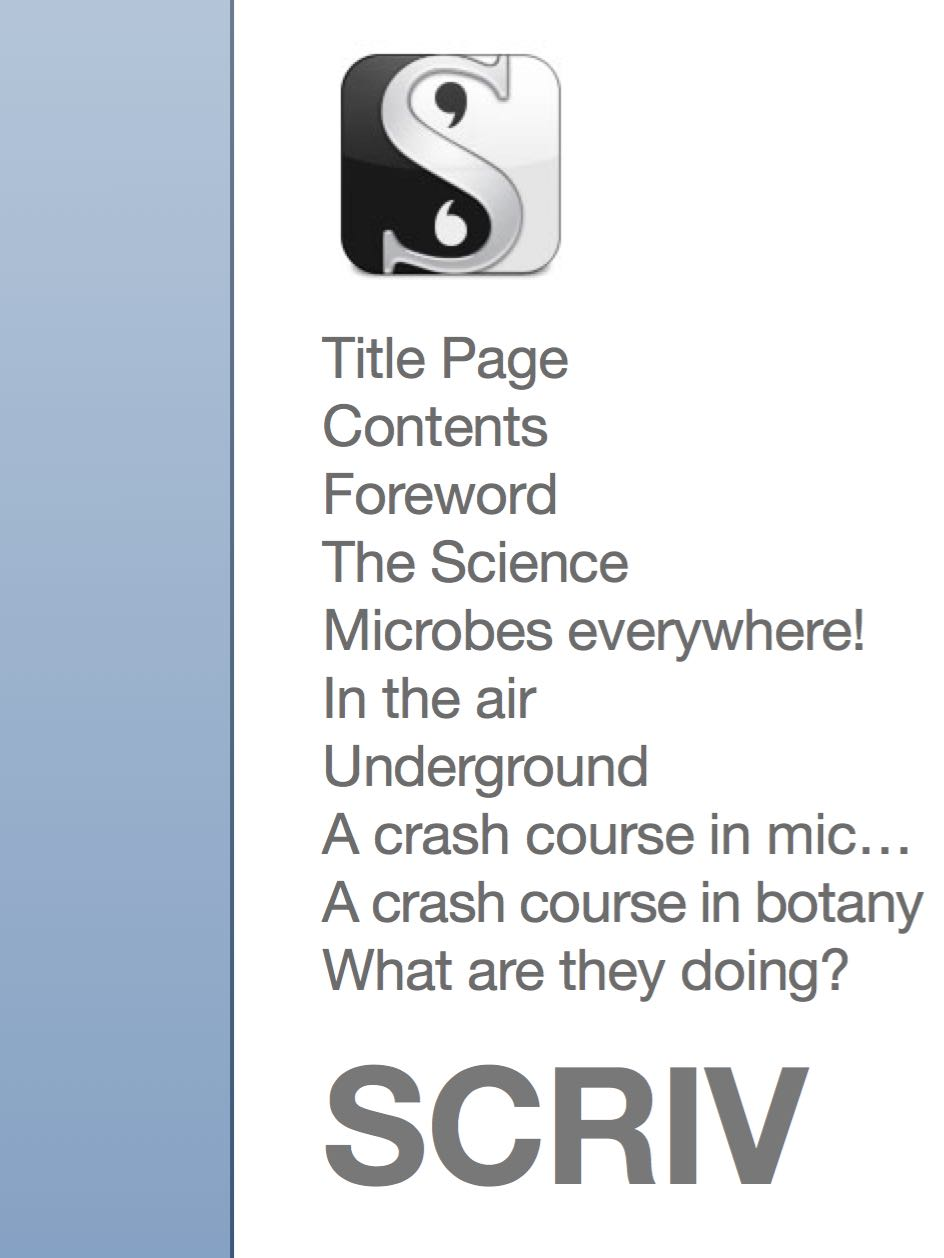
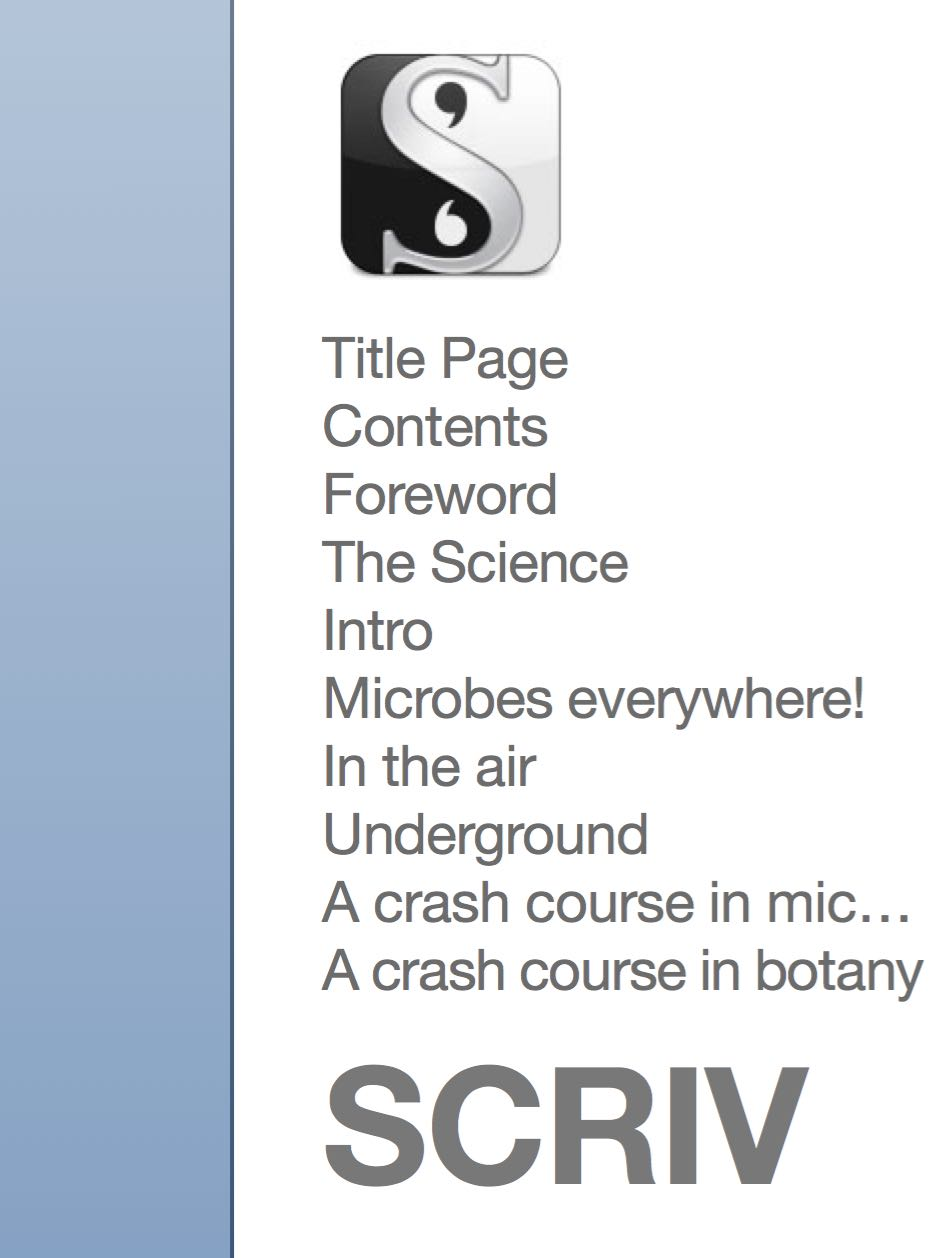
HackersGuide intro

Changed region(s): [[0.3379, 0.465, 0.9831, 0.806]]

diff --git a/docs/HackersGuide/hackersGuide.html/hackersGuide.html b/docs/HackersGuide/hackersGuide.html/hackersGuide.html
@@ -5,8 +5,8 @@
   <meta http-equiv="Content-Style-Type" content="text/css">
   <title>Hackers Guide to the Microbiome</title>
   <meta name="Author" content="Richard Sprague">
-  <meta name="CreationTime" content="2015-07-14T16:13:43Z">
-  <meta name="ModificationTime" content="2015-07-14T16:13:43Z">
+  <meta name="CreationTime" content="2015-07-15T09:19:32Z">
+  <meta name="ModificationTime" content="2015-07-15T09:19:32Z">
   <meta name="Generator" content="Cocoa HTML Writer">
   <meta name="CocoaVersion" content="1348.17">
   <style type="text/css">a:link {text-decoration:none;}
@@ -20,12 +20,12 @@ a:hover {text-decoration:none;}
     p.p5 {margin: 0.0px 0.0px 0.0px 0.0px; text-align: center; font: 12.0px Georgia}
     p.p7 {margin: 0.0px 0.0px 0.0px 0.0px; text-indent: 36.0px; font: 12.0px Georgia}
     p.p8 {margin: 0.0px 0.0px 0.0px 0.0px; text-indent: 36.0px; font: 12.0px Georgia; min-height: 14.0px}
-    p.p13 {margin: 0.0px 0.0px 0.0px 0.0px; text-indent: 18.0px; font: 12.0px Georgia}
-    p.p14 {margin: 0.0px 0.0px 0.0px 0.0px; text-indent: 18.0px; font: 12.0px Georgia; min-height: 14.0px}
-    p.p15 {margin: 0.0px 0.0px 0.0px 0.0px; font: 12.0px Georgia; color: #0b1480}
-    p.p16 {margin: 0.0px 0.0px 0.0px 0.0px; text-indent: 36.0px; font: 12.0px Georgia; color: #252525}
-    p.p17 {margin: 0.0px 0.0px 0.0px 0.0px; text-indent: 36.0px; font: 12.0px Georgia; color: #000000}
-    p.p18 {margin: 0.0px 0.0px 0.0px 0.0px; text-indent: 36.0px; font: 12.0px Georgia; color: #000000; min-height: 14.0px}
+    p.p12 {margin: 0.0px 0.0px 0.0px 0.0px; text-indent: 36.0px; font: 12.0px Georgia; color: #000000}
+    p.p13 {margin: 0.0px 0.0px 0.0px 0.0px; text-indent: 36.0px; font: 12.0px Georgia; color: #000000; min-height: 14.0px}
+    p.p15 {margin: 0.0px 0.0px 0.0px 0.0px; text-indent: 18.0px; font: 12.0px Georgia}
+    p.p16 {margin: 0.0px 0.0px 0.0px 0.0px; text-indent: 18.0px; font: 12.0px Georgia; min-height: 14.0px}
+    p.p17 {margin: 0.0px 0.0px 0.0px 0.0px; font: 12.0px Georgia; color: #0b1480}
+    p.p18 {margin: 0.0px 0.0px 0.0px 0.0px; text-indent: 36.0px; font: 12.0px Georgia; color: #252525}
     p.p19 {margin: 0.0px 0.0px 0.0px 36.0px; font: 14.0px Cochin}
     span.s1 {text-decoration: underline}
     span.s2 {font-kerning: none}
@@ -91,7 +91,7 @@ a:hover {text-decoration:none;}
         <p class="p2"><br></p>
       </td>
       <td valign="top" class="td1">
-        <p class="p3">6,000 words</p>
+        <p class="p3">7,600 words</p>
       </td>
     </tr>
   </tbody>
@@ -191,9 +191,63 @@ a:hover {text-decoration:none;}
 <p class="p2"><br></p>
 <h1 style="margin: 0.0px 0.0px 0.0px 0.0px; text-align: center; font: 24.0px Georgia"><b><a id="doc4"></a>Chapter One: The Science</b></h1>
 <h1 style="margin: 0.0px 0.0px 0.0px 0.0px; text-align: center; font: 24.0px Georgia; min-height: 27.0px"><br></h1>
+<h1 style="margin: 0.0px 0.0px 0.0px 0.0px; font: 16.0px Georgia"><b><a id="doc71"></a>Intro</b></h1>
+<p class="p12">I'm a software guy, and when I think about what it means to be human, I think first of course of all the various "software" we are made of: our language, culture, education, behaviors -- all things that seem to us to be flexible, even arbitrary, but which define us as individuals. But as with computers, the software can only run as well as the hardware, so I'm interested in that too: what is the CPU, the memory, the graphics card? and how can you expand or make it better and faster? What should you do to maintain your hardware?</p>
+<p class="p13"><br></p>
+<p class="p12">To learn more about your hardware, you can of course measure various things about yourself: temperature, blood tests, activity levels. New products like the Apple Watch are making this much easier, and in the near future you'll see an explosion of new and better ways to measure your body's hardware and with better, more actionable measurement come many ways to modify and optimize your health along the way. All of these new wearable computing devices recognize that you<span class="Apple-converted-space">  </span>are a unique individual and that we always should treat the patient, not the statistics. So what is the part of you that is fundamentally you?</p>
+<p class="p13"><br></p>
+<p class="p12">The obvious place to start is with DNA, and our human genes. I was excited when 23andme (and other services) came out about ten years ago, letting each of us inexpensively see our internal hardware, perhaps to learn more about the things that make us unique, and maybe peer into our futures, to the degree that biological traits like susceptibility to various diseases or conditions is hereditary and unchangeable.</p>
+<p class="p13"><br></p>
+<p class="p12">But after a while I realized how little of what we learn about DNA is actionable. If you find you have the "gene for"<span class="Apple-converted-space">  </span>Alzheimer's disease or Parkinson's, or any of the other traits that have been linked to specific genes, what can you do about it? In nearly every case, the advice is exactly what you should be doing even if you don't have that trait: eat well and get lots of exercise.</p>
+<p class="p13"><br></p>
+<p class="p13"><br></p>
+<p class="p7"><b>Fortunately, it's not just our DNA</b></p>
+<p class="p12">In fact, if you could point a scanner at me and pull out everything, all the "hardware" inside me right now, you'd find a curious fact: although sure, 99% of the weight and size of what you see is human (blood, skin, bones, organs, etc.), only about 10% of the cells are human, and even less than that<span class="Apple-converted-space">  </span>-- only about 1%<span class="Apple-converted-space">  </span>-- of the DNA-storing genes are human.</p>
+<p class="p13"><br></p>
+<p class="p12">What's the rest? Who am I, if only 1% of the genes inside me are human? The answer is microbes, and as befits something that so outnumbers the "human" part of us, they play a large role in everything about what we do, from our health to our moods and even, as I'll show, to our motivations.</p>
+<p class="p13"><br></p>
+<p class="p7"><b>Microbes are older than any of us</b></p>
+<p class="p12">We tend to think of the invisible, single-celled microbes as "primitive", not nearly as "advanced" as we humans, with our marvelous brains and ability to transform the earth with airplanes and skyscrapers and nuclear reactors and all the rest. But that's what we would think, wouldn't we? In fact, the microbes are everywhere, literally everywhere on earth, in the sky, even deep underground. We can't go anywhere without encountering microbes because, well, there are even microbes on and inside us. Humans can't survive without microbes. So what does it even mean to say we're "better" or more "advanced" than they are?</p>
+<p class="p13"><br></p>
+<p class="p12">Before the microscope, people didn't even know that microbes existed. Similarly, until the advent of large-scale gene sequencing machines in the past ten years, almost nothing was known about the amazing ubiquity and resilience of microbes.</p>
+<p class="p13"><br></p>
+<p class="p12">Yes, they're single-celled and yes many of their cellular functions seem more straightforward than the functions of a multi-cellular creature like us, but it would be a mistake to assume that means microbes -- collectively -- are less influential, and certainly it would be a big error to assume they are less important. Fact is, these organisms have been around, breathing, eating, multiplying, for billions of years, often in pretty much the same form that they are today. These things have survived every imaginable planetary condition from volcanoes to the depths of the ocean to the inside of nuclear reactors. Global Warming means nothing to these guys, who have seen and thrived all over the earth since the day life first appeared.</p>
+<p class="p13"><br></p>
+<p class="p7"><b>What they want</b></p>
+<p class="p12">Because they have such a huge advantage over us, in lifespan (each microbe is an exact divided copy of itself, going back a zillion generations), in speed of replication (they can double in just a few minutes under the right conditions),<span class="Apple-converted-space">  </span>and ubiquity (as I said, cellwise they far outnumber us), they can afford to colonize every new imaginable environment.<span class="Apple-converted-space"> </span></p>
+<p class="p13"><br></p>
+<p class="p12">And that's what they do, every time a new frontier opens to them. The moment of your birth, for example, when you left the (mostly) sterile conditions of your mother's womb, they immediately flooded all over your skin, mostly coming from your mother, and in that fresh environment they used their first-mover advantage to get a stronghold that in many cases lasts your entire life. Many (most?) of the microbes that matter arrived inside you this way, originally, and many of them are still there today, decades, even half a century or more later.<span class="Apple-converted-space"> </span></p>
+<p class="p13"><br></p>
+<p class="p12">To survive, they need one thing: something to eat. Being so tiny, they don't need much, and they mostly eat things that you (and other larger creatures) weren't interested in anyway. (Or, since they were here first, it's probably more accurate to say that you and I must live on the foods that they don't want. A cheeseburger is only food for you because you snatch it faster than they do. Leave it outside for a while and they'll get it eventually).</p>
+<p class="p13"><br></p>
+<p class="p7"><b>Who's in charge?</b></p>
+<p class="p12">Collectively, the multitude species of microbes will eat just about everything, but individually each species has its preferences. When they're outside the body, as I said, they can "colonize" new territories (like fresh baby skin) to get what they want, but those inside your tummy are at the mercy of whatever it is you decide to put into your mouth.</p>
+<p class="p13"><br></p>
+<p class="p12">Often, that's not a big deal: many species thrive on the same proteins, carbohydrates, and fats that you do. But some species do better than others with certain types of foods, and this is where the line between your human desires and theirs becomes unclear.</p>
+<p class="p13"><br></p>
+<p class="p12">Eighty percent of all your brain's outside receptors -- counting all the nerve endings everywhere on your skin -- eighty percent complete their connections in the gut. The main switching grounds, an area called the vagus nerve, does something.<span class="Apple-converted-space">  </span>What? We know very little, but we see some evidence that the purpose -- the reason that not 1% or 10% or 50% but a full 80% of all the receptors go to the gut -- is so the microbes can tell your brain what to do.</p>
+<p class="p13"><br></p>
+<p class="p12">When you find yourself feeling hungry, ask yourself who is feeling hungry. Scientists have traced that feeling of hunger to changes in certain hormones like leptin, but wait -- why did the leptin levels change in the first place? Could it be that a microbes someplace was manipulating your leptin levels, perhaps by poking that vagus nerve just the right way -- to get your brain to start thinking about whatever food that microbe wants?</p>
+<p class="p13"><br></p>
+<p class="p12">This isn't as ridiculous as it sounds, the idea that microbes could influence your feelings and desires. Think about a disease like the rabies microbe. Because it spreads through saliva, it can't find new territory unless its host somehow finds itself exchanging saliva -- biting -- another potential host. So guess what a rabies victim can't stop thinking about? Biting a new victim.<span class="Apple-converted-space">  </span>The microbe literally puts a thought into the mind.</p>
+<p class="p13"><br></p>
+<p class="p12">There are many other examples, so many in fact as to be potentially a bit disturbing when we realize that we humans may be much more at the mercy of tiny microbes than we think.<span class="Apple-converted-space">  </span>Links have been made between microbes and schizophrenia, stress, anxiety, self-grooming, and much more.<span class="Apple-converted-space">  </span>Autism Spectral Disorders, which have always seemed puzzling because of the relationship they seem to have with digestive problems, are also linked to microbes,<span class="Apple-converted-space">  </span>or the lack thereof.</p>
+<p class="p13"><br></p>
+<p class="p12">Perhaps the most intriguing example is the common parasite Toxoplasma gondii, the strange organism that can only reproduce in the intestines of cats. A parasite seen often in all warm-blooded mammals, it's found in about a third of the global population of humans too.<span class="Apple-converted-space">  </span>It's one of the reasons they tell pregnant women to stay away from cat litter. But here's the interesting part: when a Toxo protozoa infects a mouse, it leaves cysts in the mouse brain that make it attracted to cat urine! Yes, it changes the neurology of a mouse so that it's more likely to end up inside a cat's tummy -- exactly where it can reproduce.</p>
+<p class="p13"><br></p>
+<p class="p12">Think about this too much, and you'll end up with the obvious question: what other weird microbes are infecting us right now? Can we explain some of our own behaviors this way? Is there a human equivalent of these infections, driving us to do things we "ordinarily" wouldn't do? And maybe these microbes are so ubiquitous, teeming all over us and in our brains, maybe there's no way to even know what "ordinary" or "normal" human behavior is.</p>
+<p class="p13"><br></p>
+<p class="p13"><br></p>
+<p class="p7"><b>What is health?</b></p>
+<p class="p12">There's a new idea in science (well, maybe it's not new, but it's new to me and that's why I'm talking about this). Maybe you can't really think about human hardware without thinking about the whole ecology that goes with it, the various organisms live in and around us and greatly outnumber us.</p>
+<p class="p13"><br></p>
+<p class="p12">When you think this way, then suddenly "health" takes on a whole new meaning, because we're no longer talking about the status of a single organism -- me -- but rather about the entire function "eco-system" of many, many living things, including<span class="Apple-converted-space">  </span>the "me" that I want to refer to as a human.</p>
+<p class="p8"><br></p>
+<p class="p8"><br></p>
 <h1 style="margin: 0.0px 0.0px 0.0px 0.0px; font: 16.0px Georgia"><b><a id="doc6"></a>Microbes everywhere!</b></h1>
-<p class="p7">Every human body is home to a rich environment of tiny living organisms, trillions of them, with their own genes, their own ways of living and surviving, and their own long histories, permanently intertwined with humanity since the beginning.</p>
-<p class="p7">These microbes inhabit every possible niche inside and outside the body. Covering every inch of skin, lining every part of the nose and ears, they have burrowed deep inside nearly every organ, consuming as well as producing, living in such quantities that together they would weigh somewhere between three and five pounds -- about as much as the brain.</p>
+<p class="p7">Every human body is home to a rich environment of tiny living organisms, trillions of them, with their own genes, their own ways of living and surviving, and their own long histories, permanently intertwined with humanity since the beginning. These microbes inhabit every possible niche inside and outside the body. Covering every inch of skin, lining every part of the nose and ears, they have burrowed deep inside nearly every organ, consuming as well as producing, living in such quantities that together they would weigh somewhere between three and five pounds -- about as much as the brain.</p>
+<p class="p8"><br></p>
+<p class="p8"><br></p>
 <p class="p7">The word "microbe" refers to any tiny organism that carries its own genetic information for purposes of propagating itself. Far too small to see with the naked eye, dozens could fit inside a typical human cell. The vast majority of microbes are bacteria, though viruses and phages fit this description too, as well as archaea, the extremophile life forms that live and thrive in environments too challenging for bacteria. A typical human will have somewhere between [n and m] individual cells -- blood, skin, neurons, other tissues -- each descended from a single germ cell, the fertilized egg that began dividing itself and multiplying after the moment of conception. By contrast, microbes had to hitch their own rides later, beginning in the womb and turning into a flood at the moment of birth and beyond. But each microbe, like each human cell, remains deeply interconnected with the fates of all the other cells, all the way to the moment of death, and even after that.</p>
 <p class="p8"><br></p>
 <p class="p8"><br></p>
@@ -201,7 +255,7 @@ a:hover {text-decoration:none;}
 <p class="p8"><br></p>
 <h1 style="margin: 0.0px 0.0px 0.0px 0.0px; font: 14.0px Georgia"><b><a id="doc35"></a>In the air</b></h1>
 <p class="p7">A team in France, performing experiments on snowflakes, discovered microbes in the sky.</p>
-<p class="p13"><img src="Images/Psudomonas syringae.png" width="245" height="180" alt="Image"></p>
+<p class="p15"><img src="Images/Psudomonas syringae.png" width="245" height="180" alt="Image"></p>
 <p class="p8"><br></p>
 <p class="p7">1</p>
 <p class="p8"><br></p>
@@ -215,8 +269,8 @@ a:hover {text-decoration:none;}
 <p class="p7">There are even microbes that thrive in radioactive environments, like the dangerous interior of the Chernobyl nuclear reactor.</p>
 <p class="p8"><br></p>
 <p class="p8"><br></p>
-<p class="p13"><img src="Images/Deinococcus radiodurans.png" width="153" height="176" alt="Image"></p>
-<p class="p14"><br></p>
+<p class="p15"><img src="Images/Deinococcus radiodurans.png" width="153" height="176" alt="Image"></p>
+<p class="p16"><br></p>
 <h1 style="margin: 0.0px 0.0px 0.0px 0.0px; font: 16.0px Georgia"><b><a id="doc37"></a>A crash course in microbiology</b></h1>
 <p class="p7">Before we learn how to study your own microbiome, let's review some of the science.</p>
 <p class="p8"><br></p>
@@ -284,7 +338,7 @@ a:hover {text-decoration:none;}
         <p class="p1"><span class="s2">TTT</span></p>
       </td>
       <td rowspan="2" valign="middle" class="td14">
-        <p class="p15"><span class="s3">(Phe/F) <a href="https://en.wikipedia.org/wiki/Phenylalanine"><span class="s4">Phenylalanine</span></a></span></p>
+        <p class="p17"><span class="s3">(Phe/F) <a href="https://en.wikipedia.org/wiki/Phenylalanine"><span class="s4">Phenylalanine</span></a></span></p>
       </td>
       <td valign="middle" class="td15">
         <p class="p1"><span class="s2">TCT</span></p>
@@ -391,7 +445,7 @@ a:hover {text-decoration:none;}
         <p class="p1"><span class="s2">CAT</span></p>
       </td>
       <td rowspan="2" valign="middle" class="td24">
-        <p class="p15"><span class="s3">(His/H) <a href="https://en.wikipedia.org/wiki/Histidine"><span class="s4">Histidine</span></a></span></p>
+        <p class="p17"><span class="s3">(His/H) <a href="https://en.wikipedia.org/wiki/Histidine"><span class="s4">Histidine</span></a></span></p>
       </td>
       <td valign="middle" class="td18">
         <p class="p1"><span class="s2">CGT</span></p>
@@ -431,7 +485,7 @@ a:hover {text-decoration:none;}
         <p class="p1"><span class="s2">CAA</span></p>
       </td>
       <td rowspan="2" valign="middle" class="td17">
-        <p class="p15"><span class="s3">(Gln/Q) <a href="https://en.wikipedia.org/wiki/Glutamine"><span class="s4">Glutamine</span></a></span></p>
+        <p class="p17"><span class="s3">(Gln/Q) <a href="https://en.wikipedia.org/wiki/Glutamine"><span class="s4">Glutamine</span></a></span></p>
       </td>
       <td valign="middle" class="td18">
         <p class="p1"><span class="s2">CGA</span></p>
@@ -465,7 +519,7 @@ a:hover {text-decoration:none;}
         <p class="p1"><span class="s2">ATT</span></p>
       </td>
       <td rowspan="3" valign="middle" class="td14">
-        <p class="p15"><span class="s3">(Ile/I) <a href="https://en.wikipedia.org/wiki/Isoleucine"><span class="s4">Isoleucine</span></a></span></p>
+        <p class="p17"><span class="s3">(Ile/I) <a href="https://en.wikipedia.org/wiki/Isoleucine"><span class="s4">Isoleucine</span></a></span></p>
       </td>
       <td valign="middle" class="td15">
         <p class="p1"><span class="s2">ACT</span></p>
@@ -477,7 +531,7 @@ a:hover {text-decoration:none;}
         <p class="p1"><span class="s2">AAT</span></p>
       </td>
       <td rowspan="2" valign="middle" class="td17">
-        <p class="p15"><span class="s3">(Asn/N) <a href="https://en.wikipedia.org/wiki/Asparagine"><span class="s4">Asparagine</span></a></span></p>
+        <p class="p17"><span class="s3">(Asn/N) <a href="https://en.wikipedia.org/wiki/Asparagine"><span class="s4">Asparagine</span></a></span></p>
       </td>
       <td valign="middle" class="td18">
         <p class="p1"><span class="s2">AGT</span></p>
@@ -534,7 +588,7 @@ a:hover {text-decoration:none;}
         <p class="p1"><span class="s2">ATG<a href="https://en.wikipedia.org/wiki/DNA_codon_table#endnote_methionineA"><span class="s6">[A]</span></a></span></p>
       </td>
       <td valign="middle" class="td14">
-        <p class="p15"><span class="s3">(Met/M) <a href="https://en.wikipedia.org/wiki/Methionine"><span class="s4">Methionine</span></a></span></p>
+        <p class="p17"><span class="s3">(Met/M) <a href="https://en.wikipedia.org/wiki/Methionine"><span class="s4">Methionine</span></a></span></p>
       </td>
       <td valign="middle" class="td15">
         <p class="p1"><span class="s2">ACG</span></p>
@@ -569,7 +623,7 @@ a:hover {text-decoration:none;}
         <p class="p1"><span class="s2">GAT</span></p>
       </td>
       <td rowspan="2" valign="middle" class="td26">
-        <p class="p15"><span class="s3">(Asp/D) <a href="https://en.wikipedia.org/wiki/Aspartic_acid"><span class="s4">Aspartic acid</span></a></span></p>
+        <p class="p17"><span class="s3">(Asp/D) <a href="https://en.wikipedia.org/wiki/Aspartic_acid"><span class="s4">Aspartic acid</span></a></span></p>
       </td>
       <td valign="middle" class="td18">
         <p class="p1"><span class="s2">GGT</span></p>
@@ -609,7 +663,7 @@ a:hover {text-decoration:none;}
         <p class="p1"><span class="s2">GAA</span></p>
       </td>
       <td rowspan="2" valign="middle" class="td26">
-        <p class="p15"><span class="s3">(Glu/E) <a href="https://en.wikipedia.org/wiki/Glutamic_acid"><span class="s4">Glutamic acid</span></a></span></p>
+        <p class="p17"><span class="s3">(Glu/E) <a href="https://en.wikipedia.org/wiki/Glutamic_acid"><span class="s4">Glutamic acid</span></a></span></p>
       </td>
       <td valign="middle" class="td18">
         <p class="p1"><span class="s2">GGA</span></p>
@@ -637,7 +691,7 @@ a:hover {text-decoration:none;}
     </tr>
   </tbody>
 </table>
-<p class="p16"><span class="s6"><a href="https://en.wikipedia.org/wiki/DNA_codon_table#ref_methionineA"><b>A</b></a></span><span class="s2"> The codon ATG both codes for methionine and serves as an initiation site: the first ATG in an <a href="https://en.wikipedia.org/wiki/MRNA"><span class="s5">mRNA</span></a>'s coding region is where translation into protein begins.<a href="https://en.wikipedia.org/wiki/DNA_codon_table#cite_note-pmid19056476-1"><span class="s6">[1]</span></a></span></p>
+<p class="p18"><span class="s6"><a href="https://en.wikipedia.org/wiki/DNA_codon_table#ref_methionineA"><b>A</b></a></span><span class="s2"> The codon ATG both codes for methionine and serves as an initiation site: the first ATG in an <a href="https://en.wikipedia.org/wiki/MRNA"><span class="s5">mRNA</span></a>'s coding region is where translation into protein begins.<a href="https://en.wikipedia.org/wiki/DNA_codon_table#cite_note-pmid19056476-1"><span class="s6">[1]</span></a></span></p>
 <p class="p7"><span class="s2"><b>Inverse table (compressed using </b><a href="https://en.wikipedia.org/wiki/Nucleic_acid_notation"><span class="s5"><b>IUPAC notation</b></span></a><b>)</b></span></p>
 <table cellspacing="0" cellpadding="0" class="t2">
   <tbody>
@@ -928,11 +982,11 @@ a:hover {text-decoration:none;}
 <p class="p8"><br></p>
 <p class="p8"><br></p>
 <h1 style="margin: 0.0px 0.0px 0.0px 0.0px; font: 16.0px Georgia"><b><a id="doc70"></a>Studying the Human Microbiome</b></h1>
-<p class="p17">Studying the Human Microbiome</p>
-<p class="p18"><br></p>
-<p class="p17">During the late 1990s, biologists around the world were racing to complete the first sequence of the human genome, a first draft of which was available in June 2000, and the project was declared complete in 2003. With this sequence available, scientists now had the first rough map of all the genes that make up a human being, and they were hopeful that this would be quickly followed by new discoveries linking genes to health.<span class="Apple-converted-space"> </span></p>
-<p class="p18"><br></p>
-<p class="p17">The Human Microbiome Project was launched in 2008 by the National Institutes of Health with a budget of $115M.</p>
+<p class="p7">Studying the Human Microbiome</p>
+<p class="p8"><br></p>
+<p class="p7">During the late 1990s, biologists around the world were racing to complete the first sequence of the human genome, a first draft of which was available in June 2000, and the project was declared complete in 2003. With this sequence available, scientists now had the first rough map of all the genes that make up a human being, and they were hopeful that this would be quickly followed by new discoveries linking genes to health.<span class="Apple-converted-space"> </span></p>
+<p class="p8"><br></p>
+<p class="p7">The Human Microbiome Project was launched in 2008 by the National Institutes of Health with a budget of $115M.</p>
 <p class="p8"><br></p>
 <hr>
 <p class="p2"><br></p>
@@ -1003,7 +1057,7 @@ a:hover {text-decoration:none;}
 <p class="p8"><br></p>
 <p class="p7"><span class="Apple-converted-space"> </span>The first is called American Gut Project, associated with a lab at the University of California San Diego and others.<span class="Apple-converted-space">  </span>For a $100 donation, they'll send you a sampling kit which you send back to get a breakdown of your gut bacteria. American Gut boasts an impressive number of practicing research scientists, including several of the key contributors to the Human Microbiome<span class="Apple-converted-space"> </span></p>
 <p class="p8"><br></p>
-<p class="p13"><img src="Images/American Gut.png" width="245" height="111" alt="Image"></p>
+<p class="p15"><img src="Images/American Gut.png" width="245" height="111" alt="Image"></p>
 <p class="p7">I recommend the San Francisco company uBiome.</p>
 <p class="p8"><br></p>
 <p class="p7"><b>History of uBiome</b></p>
@@ -1011,7 +1065,7 @@ a:hover {text-decoration:none;}
 <p class="p7">In November 2012, they launched their first crowd funding campaign on the site Indiegogo, hoping to raise $100,000 to start the business. They started by selling "perks", $89 for a gut kit, $399 for a five-sample kit, offering to run the samples through the sequencing machine that Zach Apte was using at the University of California San Francisco biotech startup garage. To their surprise, the campaign raised more than $350,000, and the company was off and running.</p>
 <p class="p7">Since uBiome focused from the beginning on crowd-sourced open science, their kits were designed to be as easy to use as possible. With glossy-printed, step-by-step directions and an attractive kit with well-labeled test tubes, they wanted to let ordinary people take samples and submit them with as little fuss as possible.</p>
 <p class="p7">At the lab, uBiome also focused on automation. They built two special collection robots that could open the test tubes with the ultimate goal that they'd be able to submit to the sequencing machine with barely any human intervention.</p>
-<p class="p13"><img src="Images/uBiomeRobot20130917001011-robot.jpg" width="504" height="503" alt="Image"></p>
+<p class="p15"><img src="Images/uBiomeRobot20130917001011-robot.jpg" width="504" height="503" alt="Image"></p>
 <p class="p8"><br></p>
 <p class="p8"><br></p>
 <p class="p7">The strong start with the Indiegogo campaign brought them enough money to start the business, but more importantly it attracted the attention of other investors who soon contributed $1.5M to the new company. Eventually the uBiome staff signed on to the prestigious Y-Combinator, the startup incubator that has given birth to many famous names including Airbnb, Reddit, Dropbox and others, and landed an additional $3M investment from the prestigious venture capital firm Andreessen Horowitz.</p>
@@ -1063,12 +1117,12 @@ a:hover {text-decoration:none;}
 <p class="p7">If you just have one or two files, it's easy to bring uBiome taxonomy data into Excel. Go to the uBiome apps page and click on the section labeled "Download taxonomy".</p>
 <p class="p8"><br></p>
 <p class="p8"><br></p>
-<p class="p13"><img src="Images/uBiomeScreenDownloadData.png" width="290" height="325" alt="Image"></p>
+<p class="p15"><img src="Images/uBiomeScreenDownloadData.png" width="290" height="325" alt="Image"></p>
 <p class="p8"><br></p>
 <p class="p8"><br></p>
 <p class="p7">You'll see a page of JSON representing what uBiome found in your sample.</p>
 <p class="p8"><br></p>
-<p class="p13"><img src="Images/uBiomeScreenShotTaxonomyJSON.png" width="471" height="225" alt="Image"></p>
+<p class="p15"><img src="Images/uBiomeScreenShotTaxonomyJSON.png" width="471" height="225" alt="Image"></p>
 <p class="p8"><br></p>
 <p class="p7">On a desktop computer, if you select-all (press control-A or command-A) then you can copy this data to the clipboard to prepare to paste it to another web site.</p>
 <p class="p8"><br></p>
@@ -1078,7 +1132,7 @@ a:hover {text-decoration:none;}
 <p class="p8"><br></p>
 <p class="p7">Once the data is in Excel, you can work with it just as you would with any Excel data sheet. Here's how one of my recent uBiome taxonomy files looks in Mac Excel:</p>
 <p class="p8"><br></p>
-<p class="p13"><img src="Images/ExcelScreenOverview.png" width="505" height="311" alt="Image"></p>
+<p class="p15"><img src="Images/ExcelScreenOverview.png" width="505" height="311" alt="Image"></p>
 <p class="p8"><br></p>
 <p class="p7">Yours may look slightly different. Sometimes uBiome changes the labels on the taxonomy slightly, and the ordering of the columns may be different depending on how the JSON was converted, but none of that matters. The key is that you are now able to work with it in a full-blown spreadsheet.</p>
 <p class="p8"><br></p>

diff --git a/docs/HackersGuide/hackersGuide.scriv/QuickLook/Preview.html b/docs/HackersGuide/hackersGuide.scriv/QuickLook/Preview.html
@@ -68,14 +68,16 @@ The book is divided into four main sections:<br/>
 <hr/>
 <ul>
 <li>
-<p class="binderItem"><strong>Microbes everywhere!</strong><br/>Every human body is home to a rich environment of tiny living organisms, trillions of them, with their own genes, their own ways of living and surviving, and their own long histories, permanently intertwined with humanity since the beginning.<br/>
-These microbes inhabit every possible niche inside and outside the body. Covering every inch of skin, lining every part of the nose and ears, they have burrowed deep inside nearly every organ, consuming as well as producing, living in such quantities that t...</p>
+<p class="binderItem"><strong>Intro</strong><br/>I’m a software guy, and when I think about what it means to be human, I think first of course of all the various “software” we are made of: our language, culture, education, behaviors — all things that seem to us to be flexible, even arbitrary, but which define us as individuals. But as with computers, the software can only run as well as the hardware, so I’m interested in that too: what is the CPU, the memory, the graphics card? and how can you expand or make it better and faster? What should y...</p>
+</li>
+<li>
+<p class="binderItem"><strong>Microbes everywhere!</strong><br/>Every human body is home to a rich environment of tiny living organisms, trillions of them, with their own genes, their own ways of living and surviving, and their own long histories, permanently intertwined with humanity since the beginning. These microbes inhabit every possible niche inside and outside the body. Covering every inch of skin, lining every part of the nose and ears, they have burrowed deep inside nearly every organ, consuming as well as producing, living in such quantities that t...</p>
 </li>
 <hr/>
 <ul>
 <li>
 <p class="binderItem"><strong>In the air</strong><br/>A team in France, performing experiments on snowflakes, discovered microbes in the sky.<br/>
-<br/>
+#<br/>
 <br/>
 !fig(amatoSkyMicrobe)<br/>
 <br/>
@@ -87,7 +89,8 @@ These microbes inhabit every possible niche inside and outside the body. Coverin
 <br/>
 There are even microbes that thrive in radioactive environments, like the dangerous interior of the Chernobyl nuclear reactor.<br/>
 <br/>
-</p>
+<br/>
+#</p>
 </li>
 </ul>
 <hr/>

diff --git a/docs/HackersGuide/hackersGuide-md/hackersGuide.md b/docs/HackersGuide/hackersGuide-md/hackersGuide.md
@@ -11,7 +11,7 @@ WA
 Sprague@ensembio.com
 
 
-6,000 words
+7,600 words
 
 
 
@@ -79,10 +79,65 @@ The book is divided into four main sections:
 
 # Chapter One: The Science #
 
+## Intro ##
+
+I'm a software guy, and when I think about what it means to be human, I think first of course of all the various "software" we are made of: our language, culture, education, behaviors --- all things that seem to us to be flexible, even arbitrary, but which define us as individuals. But as with computers, the software can only run as well as the hardware, so I'm interested in that too: what is the CPU, the memory, the graphics card? and how can you expand or make it better and faster? What should you do to maintain your hardware?
+
+To learn more about your hardware, you can of course measure various things about yourself: temperature, blood tests, activity levels. New products like the Apple Watch are making this much easier, and in the near future you'll see an explosion of new and better ways to measure your body's hardware and with better, more actionable measurement come many ways to modify and optimize your health along the way. All of these new wearable computing devices recognize that you  are a unique individual and that we always should treat the patient, not the statistics. So what is the part of you that is fundamentally you?
+
+The obvious place to start is with DNA, and our human genes. I was excited when 23andme (and other services) came out about ten years ago, letting each of us inexpensively see our internal hardware, perhaps to learn more about the things that make us unique, and maybe peer into our futures, to the degree that biological traits like susceptibility to various diseases or conditions is hereditary and unchangeable.
+
+But after a while I realized how little of what we learn about DNA is actionable. If you find you have the "gene for"  Alzheimer's disease or Parkinson's, or any of the other traits that have been linked to specific genes, what can you do about it? In nearly every case, the advice is exactly what you should be doing even if you don't have that trait: eat well and get lots of exercise.
+
+
+Fortunately, it's not just our DNA
+In fact, if you could point a scanner at me and pull out everything, all the "hardware" inside me right now, you'd find a curious fact: although sure, 99% of the weight and size of what you see is human (blood, skin, bones, organs, etc.), only about 10% of the cells are human, and even less than that  --- only about 1%  --- of the DNA-storing genes are human.
+
+What's the rest? Who am I, if only 1% of the genes inside me are human? The answer is microbes, and as befits something that so outnumbers the "human" part of us, they play a large role in everything about what we do, from our health to our moods and even, as I'll show, to our motivations.
+
+Microbes are older than any of us
+We tend to think of the invisible, single-celled microbes as "primitive", not nearly as "advanced" as we humans, with our marvelous brains and ability to transform the earth with airplanes and skyscrapers and nuclear reactors and all the rest. But that's what we would think, wouldn't we? In fact, the microbes are everywhere, literally everywhere on earth, in the sky, even deep underground. We can't go anywhere without encountering microbes because, well, there are even microbes on and inside us. Humans can't survive without microbes. So what does it even mean to say we're "better" or more "advanced" than they are?
+
+Before the microscope, people didn't even know that microbes existed. Similarly, until the advent of large-scale gene sequencing machines in the past ten years, almost nothing was known about the amazing ubiquity and resilience of microbes.
+
+Yes, they're single-celled and yes many of their cellular functions seem more straightforward than the functions of a multi-cellular creature like us, but it would be a mistake to assume that means microbes -- collectively -- are less influential, and certainly it would be a big error to assume they are less important. Fact is, these organisms have been around, breathing, eating, multiplying, for billions of years, often in pretty much the same form that they are today. These things have survived every imaginable planetary condition from volcanoes to the depths of the ocean to the inside of nuclear reactors. Global Warming means nothing to these guys, who have seen and thrived all over the earth since the day life first appeared.
+
+What they want
+Because they have such a huge advantage over us, in lifespan (each microbe is an exact divided copy of itself, going back a zillion generations), in speed of replication (they can double in just a few minutes under the right conditions),  and ubiquity (as I said, cellwise they far outnumber us), they can afford to colonize every new imaginable environment. 
+
+And that's what they do, every time a new frontier opens to them. The moment of your birth, for example, when you left the (mostly) sterile conditions of your mother's womb, they immediately flooded all over your skin, mostly coming from your mother, and in that fresh environment they used their first-mover advantage to get a stronghold that in many cases lasts your entire life. Many (most?) of the microbes that matter arrived inside you this way, originally, and many of them are still there today, decades, even half a century or more later. 
+
+To survive, they need one thing: something to eat. Being so tiny, they don't need much, and they mostly eat things that you (and other larger creatures) weren't interested in anyway. (Or, since they were here first, it's probably more accurate to say that you and I must live on the foods that they don't want. A cheeseburger is only food for you because you snatch it faster than they do. Leave it outside for a while and they'll get it eventually).
+
+Who's in charge?
+Collectively, the multitude species of microbes will eat just about everything, but individually each species has its preferences. When they're outside the body, as I said, they can "colonize" new territories (like fresh baby skin) to get what they want, but those inside your tummy are at the mercy of whatever it is you decide to put into your mouth.
+
+Often, that's not a big deal: many species thrive on the same proteins, carbohydrates, and fats that you do. But some species do better than others with certain types of foods, and this is where the line between your human desires and theirs becomes unclear.
+
+Eighty percent of all your brain's outside receptors -- counting all the nerve endings everywhere on your skin -- eighty percent complete their connections in the gut. The main switching grounds, an area called the vagus nerve, does something.  What? We know very little, but we see some evidence that the purpose -- the reason that not 1% or 10% or 50% but a full 80% of all the receptors go to the gut -- is so the microbes can tell your brain what to do.
+
+When you find yourself feeling hungry, ask yourself who is feeling hungry. Scientists have traced that feeling of hunger to changes in certain hormones like leptin, but wait -- why did the leptin levels change in the first place? Could it be that a microbes someplace was manipulating your leptin levels, perhaps by poking that vagus nerve just the right way -- to get your brain to start thinking about whatever food that microbe wants?
+
+This isn't as ridiculous as it sounds, the idea that microbes could influence your feelings and desires. Think about a disease like the rabies microbe. Because it spreads through saliva, it can't find new territory unless its host somehow finds itself exchanging saliva -- biting -- another potential host. So guess what a rabies victim can't stop thinking about? Biting a new victim.  The microbe literally puts a thought into the mind.
+
+There are many other examples, so many in fact as to be potentially a bit disturbing when we realize that we humans may be much more at the mercy of tiny microbes than we think.  Links have been made between microbes and schizophrenia, stress, anxiety, self-grooming, and much more.  Autism Spectral Disorders, which have always seemed puzzling because of the relationship they seem to have with digestive problems, are also linked to microbes,  or the lack thereof.
+
+Perhaps the most intriguing example is the common parasite Toxoplasma gondii, the strange organism that can only reproduce in the intestines of cats. A parasite seen often in all warm-blooded mammals, it's found in about a third of the global population of humans too.  It's one of the reasons they tell pregnant women to stay away from cat litter. But here's the interesting part: when a Toxo protozoa infects a mouse, it leaves cysts in the mouse brain that make it attracted to cat urine! Yes, it changes the neurology of a mouse so that it's more likely to end up inside a cat's tummy -- exactly where it can reproduce.
+
+Think about this too much, and you'll end up with the obvious question: what other weird microbes are infecting us right now? Can we explain some of our own behaviors this way? Is there a human equivalent of these infections, driving us to do things we "ordinarily" wouldn't do? And maybe these microbes are so ubiquitous, teeming all over us and in our brains, maybe there's no way to even know what "ordinary" or "normal" human behavior is.
+
+
+What is health?
+There's a new idea in science (well, maybe it's not new, but it's new to me and that's why I'm talking about this). Maybe you can't really think about human hardware without thinking about the whole ecology that goes with it, the various organisms live in and around us and greatly outnumber us.
+
+When you think this way, then suddenly "health" takes on a whole new meaning, because we're no longer talking about the status of a single organism -- me -- but rather about the entire function "eco-system" of many, many living things, including  the "me" that I want to refer to as a human.
+
+
 ## Microbes everywhere! ##
 
-Every human body is home to a rich environment of tiny living organisms, trillions of them, with their own genes, their own ways of living and surviving, and their own long histories, permanently intertwined with humanity since the beginning.
-These microbes inhabit every possible niche inside and outside the body. Covering every inch of skin, lining every part of the nose and ears, they have burrowed deep inside nearly every organ, consuming as well as producing, living in such quantities that together they would weigh somewhere between three and five pounds --- about as much as the brain.
+Every human body is home to a rich environment of tiny living organisms, trillions of them, with their own genes, their own ways of living and surviving, and their own long histories, permanently intertwined with humanity since the beginning. These microbes inhabit every possible niche inside and outside the body. Covering every inch of skin, lining every part of the nose and ears, they have burrowed deep inside nearly every organ, consuming as well as producing, living in such quantities that together they would weigh somewhere between three and five pounds --- about as much as the brain.
+
+
 The word "microbe" refers to any tiny organism that carries its own genetic information for purposes of propagating itself. Far too small to see with the naked eye, dozens could fit inside a typical human cell. The vast majority of microbes are bacteria, though viruses and phages fit this description too, as well as archaea, the extremophile life forms that live and thrive in environments too challenging for bacteria. A typical human will have somewhere between [n and m] individual cells --- blood, skin, neurons, other tissues --- each descended from a single germ cell, the fertilized egg that began dividing itself and multiplying after the moment of conception. By contrast, microbes had to hitch their own rides later, beginning in the womb and turning into a flood at the moment of birth and beyond. But each microbe, like each human cell, remains deeply interconnected with the fates of all the other cells, all the way to the moment of death, and even after that.
 
 
